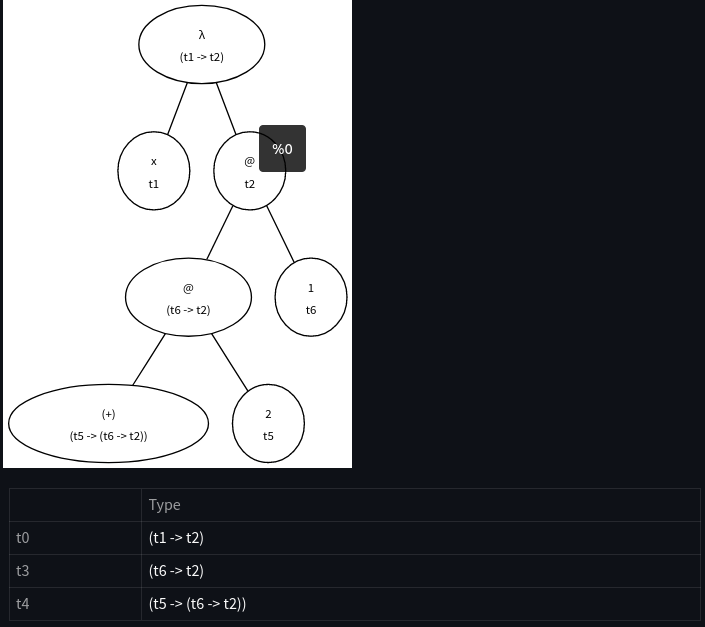
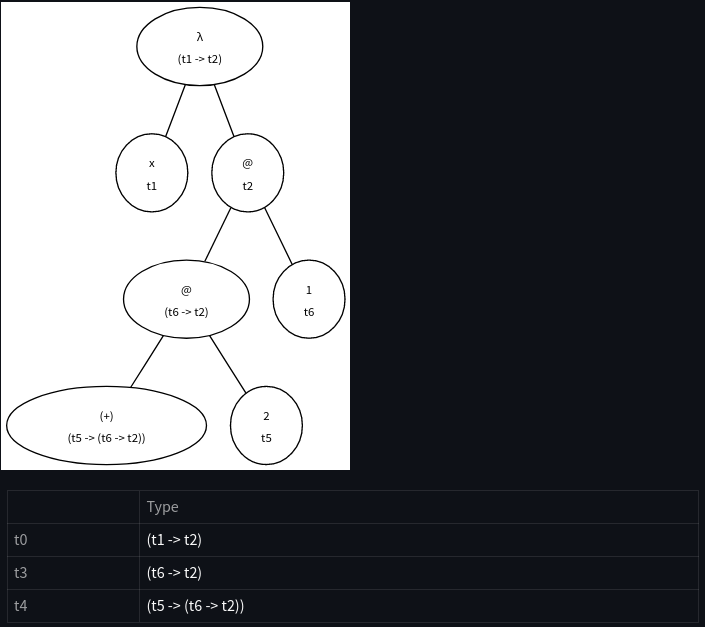
Added second example

diff --git a/README.md b/README.md
@@ -1,10 +1,26 @@
 <h1>HinNer Analyser</h1>
 <p>The following code makes inferences about the type of a simplified version of Haskell expressions using ANTLR. Here are some exemples of the types of expressions accepted and its results:</p>
 <h3>Example 1:</h3>
+<p>In this example it is used only one expression.</p>
 
 ![plot](./images/input1.png)
+
+<p>Following is the tree previous to applying the inference algorithm.</p>
+
 ![plot](./images/typeTree1.png)
+
+<p>This is the result with the infered types:</p>
+
 ![plot](./images/inferedTreeType1.png)
+
+<h3>Example 2:</h3>
+<p>Some definitions will be added previous to the expression.</p>
+
+![plot](./images/input2.png)
+
+![plot](./images/typeTree2.png)
+
+![plot](./images/inferedTreeType2.png)
 
 <h2>Installation</h2>
 <p>Execute the file named installSetup.sh</p>
